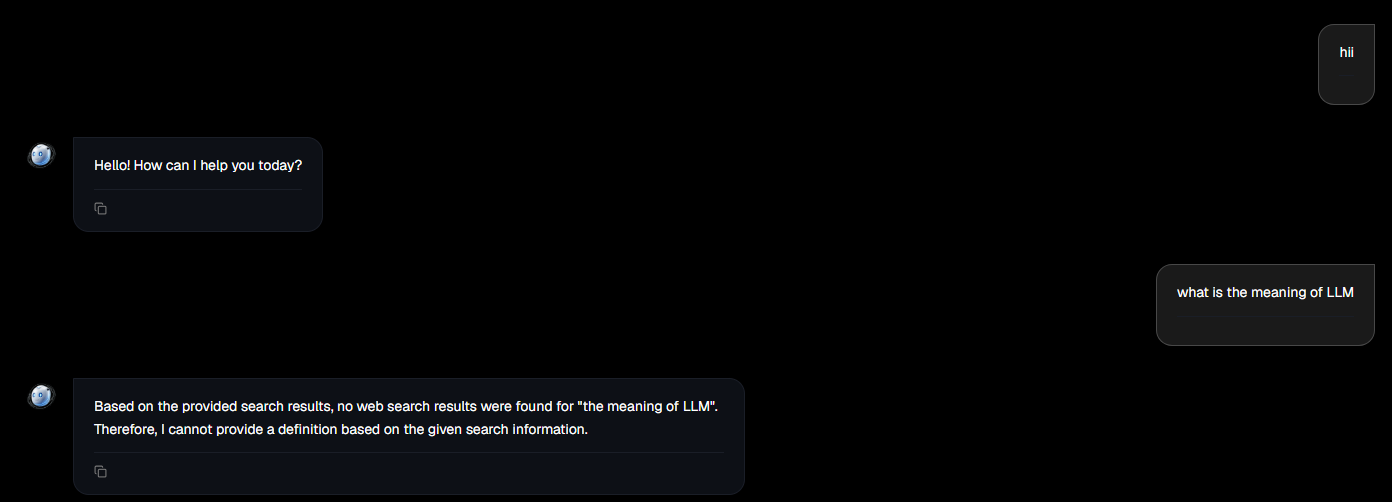
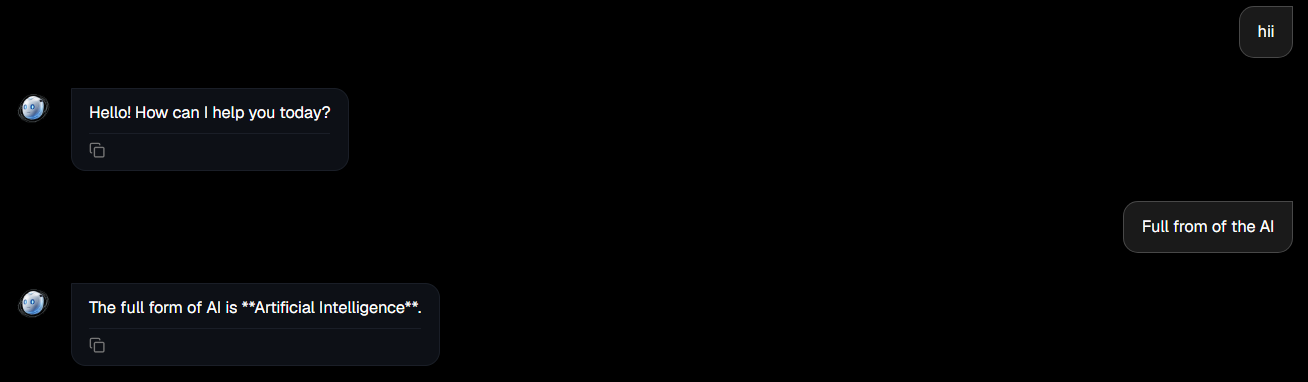
feat: add interface mockups and implement initial ChatPage components

diff --git a/TalkEasy-client/src/landing/components/mockups/Screens.jsx b/TalkEasy-client/src/landing/components/mockups/Screens.jsx
@@ -74,19 +74,19 @@ export const ShowcaseChatScreen = memo(function ShowcaseChatScreen({ className }
   return (
     <div
       className={cn(
-        "relative w-full h-full overflow-hidden shadow-2xl flex items-center justify-center",
+        "relative w-full h-full overflow-y-auto custom-scrollbar shadow-2xl bg-[var(--surface-solid)]",
         className,
       )}
     >
       <img
         src="/chat2-white.png"
         alt="TalkEasy Assistant Chat"
-        className="block dark:hidden w-full h-full object-cover object-top"
+        className="block dark:hidden w-full h-auto"
       />
       <img
         src="/chat2-dark.png"
         alt="TalkEasy Assistant Chat"
-        className="hidden dark:block w-full h-full object-cover object-top"
+        className="hidden dark:block w-full h-auto"
       />
     </div>
   );
@@ -147,10 +147,10 @@ export const VoiceCallScreen = memo(function VoiceCallScreen({ className }) {
 
 export const ImageGenScreen = memo(function ImageGenScreen({ className }) {
   const tiles = [
-    { label: "Midnight city", tone: "bg-zinc-800 text-zinc-300" },
-    { label: "Abstract bloom", tone: "bg-zinc-200 text-zinc-600" },
-    { label: "Isometric office", tone: "bg-zinc-700 text-zinc-300" },
-    { label: "Neon waves", tone: "bg-zinc-300 text-zinc-700" },
+    { label: "Midnight city", tone: "bg-zinc-800 text-zinc-300", image: "/mockups/midnight_city.png" },
+    { label: "Abstract bloom", tone: "bg-zinc-200 text-zinc-600", image: "/mockups/abstract_bloom.png" },
+    { label: "Isometric office", tone: "bg-zinc-700 text-zinc-300", image: "/mockups/isometric_office.png" },
+    { label: "Neon waves", tone: "bg-zinc-300 text-zinc-700", image: "/mockups/neon_waves.png" },
   ];
   return (
     <div
@@ -171,14 +171,18 @@ export const ImageGenScreen = memo(function ImageGenScreen({ className }) {
         {tiles.map((tile) => (
           <div
             key={tile.label}
-            className={cn(
-              "relative rounded-xl overflow-hidden border border-[var(--glass-border)]",
-              tile.tone,
-            )}
+            className="relative rounded-xl overflow-hidden border border-[var(--glass-border)] group"
           >
-            <span className="absolute inset-0 flex items-center justify-center text-[9px] font-medium opacity-80 px-1 text-center">
-              {tile.label}
-            </span>
+            <img 
+              src={tile.image} 
+              alt={tile.label} 
+              className="w-full h-full object-cover transition-transform duration-500 group-hover:scale-105"
+            />
+            <div className="absolute inset-x-0 bottom-0 bg-gradient-to-t from-black/80 to-transparent p-2">
+              <span className="block text-[9px] font-medium text-white/90 text-center truncate">
+                {tile.label}
+              </span>
+            </div>
           </div>
         ))}
       </div>

diff --git a/TalkEasy-client/src/pages/ChatPage.jsx b/TalkEasy-client/src/pages/ChatPage.jsx
@@ -328,11 +328,11 @@ const ChatPage = () => {
                 )}
 
                 <div
-                  className={`flex flex-col gap-2 max-w-[85%] sm:max-w-xl md:max-w-2xl ${isUser ? "items-end" : ""}`}
+                  className={`flex flex-col gap-1.5 max-w-[85%] sm:max-w-md md:max-w-lg lg:max-w-xl ${isUser ? "items-end" : ""}`}
                 >
                   {/* Chat bubble */}
                   <div
-                    className={`px-4 py-3 rounded-2xl text-sm leading-relaxed border shadow-sm transition-all duration-300 break-words ${
+                    className={`px-3.5 py-2.5 rounded-xl text-[13px] leading-normal border shadow-sm transition-all duration-300 break-words ${
                       isUser
                         ? "bg-brand-blue/10 border-brand-blue/20 text-app-text rounded-tr-none"
                         : "bg-surface-solid border-glass-border text-app-text rounded-tl-none"
@@ -340,7 +340,7 @@ const ChatPage = () => {
                   >
                     {(() => {
                       // Extract file attachments
-                      let displayText = message.text || "";
+                      let displayText = (message.text || "").trim();
                       const fileMatches = displayText.match(
                         /\[FILE:([a-zA-Z0-9-]+)\]/g,
                       );
@@ -430,23 +430,21 @@ const ChatPage = () => {
                       );
                     })()}
 
-                    <div
-                      className={`flex items-center gap-1.5 mt-3 pt-3 border-t border-glass-border text-[10px] text-app-text-muted font-medium ${isUser ? "justify-end" : "justify-between"}`}
-                    >
-                      {/* <span>{message.time}</span> */}
-
-                      {!isUser && (
+                    {!isUser && (
+                      <div
+                        className="flex items-center gap-1.5 mt-1.5 pt-1.5 border-t border-glass-border text-[10px] text-app-text-muted font-medium justify-between"
+                      >
                         <div className="flex items-center gap-3">
                           <button
                             onClick={() => handleCopy(message.text, message.id)}
-                            className="hover:text-app-text transition-colors"
+                            className="hover:text-app-text transition-colors cursor-pointer"
                             title="Copy message"
                           >
                             <Copy size={13} />
                           </button>
                         </div>
-                      )}
-                    </div>
+                      </div>
+                    )}
                   </div>
 
                   {/* Suggestion Chips (only on last AI message) */}

diff --git a/TalkEasy-client/src/components/layout/Sidebar.jsx b/TalkEasy-client/src/components/layout/Sidebar.jsx
@@ -426,7 +426,7 @@ const Sidebar = ({ isOpen, toggleSidebar }) => {
                               setRenameValue("");
                             }
                           }}
-                          className="w-[85%] bg-transparent border-b border-brand-blue text-sm text-app-text outline-none pr-6"
+                          className="w-[85%] bg-transparent border-b border-brand-blue text-xs text-app-text outline-none pr-6"
                         />
                       ) : (
                         <p className="text-sm text-app-text font-medium truncate pr-6">
